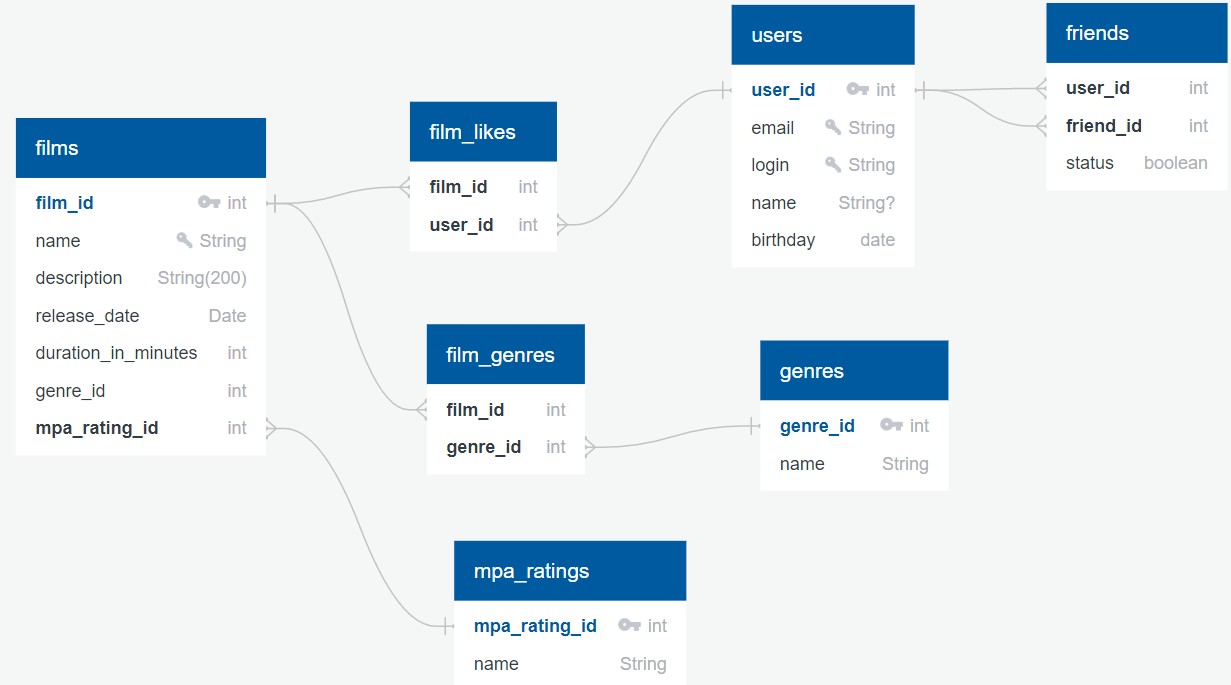
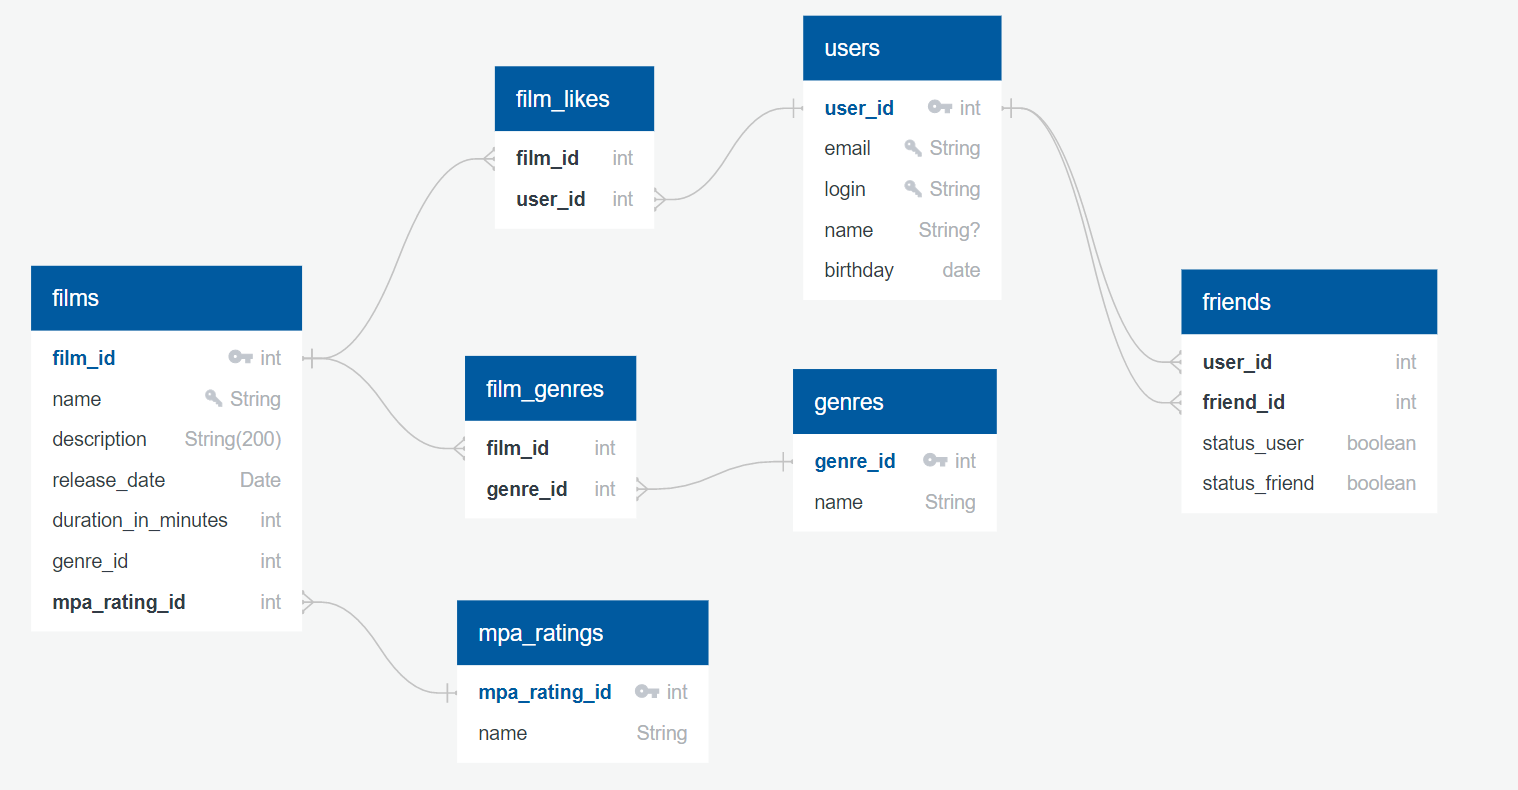
11.2.2 поменял связь добавления в друзья

diff --git a/src/main/java/ru/yandex/practicum/filmorate/storage/dao/friend/FriendDbDao.java b/src/main/java/ru/yandex/practicum/filmorate/storage/dao/friend/FriendDbDao.java
@@ -5,12 +5,10 @@ import lombok.extern.slf4j.Slf4j;
 import org.springframework.dao.EmptyResultDataAccessException;
 import org.springframework.jdbc.core.JdbcTemplate;
 import org.springframework.stereotype.Repository;
-import ru.yandex.practicum.filmorate.exeption.not_found.UserNotFoundException;
-import ru.yandex.practicum.filmorate.model.Friend;
-import ru.yandex.practicum.filmorate.storage.mapper.FriendMapper;
+import ru.yandex.practicum.filmorate.exeption.notfound.FilmNotFoundException;
+import ru.yandex.practicum.filmorate.exeption.validate.FriendAlreadyExistException;
 
 import java.util.List;
-import java.util.stream.Collectors;
 
 import static java.lang.String.format;
 
@@ -22,131 +20,127 @@ public class FriendDbDao implements FriendDao {
 
     @Override
     public void addFriend(int userId, int friendId) {
-        log.info("запрос на добавления в друзья от {} к {}", userId, friendId);
+        log.info("запрос на добавления в друзья от user_id={} к friend_id={}", userId, friendId);
+        if (userId == friendId) {
+            log.info("нельзя добавить самого себя в друзья");
+            throw new FriendAlreadyExistException("нельзя добавить самого себя в друзья");
+        }
         switch (checkFriend(userId, friendId)) {
             case 1:
-                log.info("User с id - {}, уже отправлял заявку friend с id - {}", userId, friendId);
+            case 3:
+                log.info("user_id={} уже отправлял заявку friend_id={}", userId, friendId);
+                throw new FriendAlreadyExistException(format("user_id=%d уже отправлял заявку friend_id=%d",
+                        userId, friendId));
+            case 2:
+            case 4:
+                log.info("user_id={} одобрил заявку friend_id={}", userId, friendId);
+                jdbcTemplate.update("UPDATE friends " +
+                        "SET status_user=? " +
+                        "WHERE user_id=? " +
+                        "AND friend_id=? ", true, userId, friendId);
                 break;
-            case 0:
-                log.info("User с id - {}, подал заявку user с id - {}", userId, friendId);
-                jdbcTemplate.update("INSERT INTO friends (user_id, friend_id, status) " +
-                        "VALUES(?, ?, ?)", userId, friendId, false);
+            case 5:
+                log.info("user_id={} отправил заявку friend_id={}", userId, friendId);
+                jdbcTemplate.update("INSERT INTO friends (user_id, friend_id, status_user, status_friend) " +
+                        "VALUES(?, ?, ?, ?)", userId, friendId, true, false);
                 break;
-            case -1:
-                log.info("User с id - {}, принял заявку friend с id - {}", friendId, userId);
-                jdbcTemplate.update(""
-                                + "UPDATE friends "
-                                + "SET user_id=?, friend_id=?, status=? "
-                                + "WHERE user_id=? "
-                                + "AND friend_id=? ",
-                        friendId,
-                        userId,
-                        true,
-                        friendId,
-                        userId);
-                break;
-
+            default:
+                throw new FilmNotFoundException("неизвестная команда добавления фильма");
         }
 
     }
 
     @Override
     public void deleteFriend(int userId, int friendId) {
-        log.info("запрос на удаление из друзей от {} к {}", userId, friendId);
+        log.info("запрос на удаление из друзей от user_id={} к friend_id={}", userId, friendId);
         switch (checkFriend(userId, friendId)) {
-            case 0:
-                log.info("Не были друзьями");
-                return;
-            case -1:
-                log.info("Заменили местами user id.");
-                int swap = userId;
-                userId = friendId;
-                friendId = swap;
-        }
+            case 1:
+                log.info("user_id={}, удалил заявку id={}", userId, friendId);
+                jdbcTemplate.update(""
+                        + "UPDATE friends "
+                        + "SET status_user = false "
+                        + "WHERE user_id=? "
+                        + "AND friend_id=?", userId, friendId);
+                break;
+            case 3:
+                log.info("user_id={}, удалил заявку id={}", userId, friendId);
+                jdbcTemplate.update(""
+                        + "UPDATE friends "
+                        + "SET status_friend = false "
+                        + "WHERE user_id=? "
+                        + "AND friend_id=?", friendId, userId);
+                break;
 
-        Friend result = get(userId, friendId);
-
-        if (result.getStatus()) {
-            log.info("один из user отозвал подтверждение дружбы");
-            jdbcTemplate.update(""
-                    + "UPDATE friends "
-                    + "SET status = false "
-                    + "WHERE user_id=? "
-                    + "AND friend_id=?", userId, friendId);
-
-        } else {
-            log.info("оба user отозвали подтверждение дружбы");
-            jdbcTemplate.update(""
-                    + "DELETE FROM friends "
-                    + "WHERE user_id=? "
-                    + "AND friend_id=?", userId, friendId);
+            case 2:
+            case 4:
+            case 5:
+                log.info("user_id={} не был другом с id={}", userId, friendId);
+                throw new FriendAlreadyExistException(format("user_id=%d не был другом с id=%d", userId, friendId));
+            default:
+                throw new FilmNotFoundException("неизвестная команда добавления фильма");
         }
 
     }
 
     @Override
-    public List<Integer> showFriendsById(int id) {
-        log.info("запрос на вывод друзей пользователя ID - {}", id);
+    public List<Integer> showFriendsById(int userId) {
+        log.info("запрос на вывод друзей пользователя ID - {}", userId);
 
-        List<Integer> friend = jdbcTemplate.query(format(""
-                        + "SELECT user_id, friend_id, status "
-                        + "FROM friends "
-                        + "WHERE user_id=%d "
-                        + "OR (friend_id=%d and status=%b)  ", id, id, true), new FriendMapper())
-                .stream()
-                .map(friend1 -> {
-                    if (friend1.getFriendId() != id) {
-                        return friend1.getFriendId();
-                    } else {
-                        return friend1.getUserId();
-                    }
-                }).distinct().collect(Collectors.toList());
-        return friend;
-    }
-
-    private Friend get(int userId, int friendId) {
-        log.info("запрос на одну отдельную заявку друзей");
-        return jdbcTemplate.queryForObject(format(""
-                + "SELECT user_id, friend_id, status "
+        List<Integer> users = jdbcTemplate.queryForList(format(""
+                + "SELECT friend_id "
                 + "FROM friends "
-                + "WHERE user_id=%d "
-                + "AND friend_id=%d", userId, friendId), new FriendMapper());
+                + "WHERE user_id=%d AND status_user=%b ", userId, true), Integer.class);
+
+        List<Integer> friends = jdbcTemplate.queryForList(format(""
+                + "SELECT user_id "
+                + "FROM friends "
+                + "WHERE friend_id=%d AND status_friend=%b ", userId, true), Integer.class);
+
+        users.addAll(friends);
+
+        return users;
     }
 
     private byte checkFriend(int userId, int friendId) {
         log.info("проверка записи друзей");
         try {
+
+            Boolean userFriendStatus = jdbcTemplate.queryForObject(format(""
+                    + "SELECT status_user "
+                    + "FROM friends "
+                    + "WHERE user_id=%d "
+                    + "AND friend_id=%d ", userId, friendId), Boolean.class);
             log.debug("user_id: {}, уже добавил friend_id: {}", userId, friendId);
-            Friend friend = jdbcTemplate.queryForObject(format(""
-                    + "SELECT user_id, friend_id, status "
-                    + "FROM friends "
-                    + "WHERE user_id=%d "
-                    + "AND friend_id=%d ", userId, friendId), new FriendMapper());
-            log.info("запись имеется в правильном формате {}", friend);
-            return 1;
 
-        } catch (EmptyResultDataAccessException ignored) {
-            log.info("пустая обработка EmptyResultDataAccessException");
 
-        }
-        try {
-            log.info("user_id: {} пытается одобрить заявку friend_id: {}", userId, friendId);
-            Friend friend = jdbcTemplate.queryForObject(format(""
-                    + "SELECT user_id, friend_id, status "
-                    + "FROM friends "
-                    + "WHERE user_id=%d "
-                    + "AND friend_id=%d ", friendId, userId), new FriendMapper());
-            log.info("запись имеется в развернутом формате {}", friend);
-            if (friend.getStatus()) {
-                log.debug("user_id: {} уже одобрить заявку friend_id: {}", userId, friendId);
-                throw new UserNotFoundException("Уже добавлены в друзья");
+            if (userFriendStatus) {
+                log.debug("user_id:{} и friend_id:{} уже являются друзьями", userId, friendId);
+                return 1;
+            } else {
+                log.debug("user_id:{} отправил заявку friend_id:{}", userId, friendId);
+                return 2;
             }
-            log.debug("user_id: {} может одобрить заявку friend_id: {}", userId, friendId);
-            return -1;
-
-        } catch (EmptyResultDataAccessException e) {
-            log.info("запись друзей отсутствует");
-            return 0;
+        } catch (EmptyResultDataAccessException ignored) {
         }
+
+        try {
+            Boolean friendUserStatus = jdbcTemplate.queryForObject(format(""
+                    + "SELECT status_friend "
+                    + "FROM friends "
+                    + "WHERE user_id=%d "
+                    + "AND friend_id=%d ", friendId, userId), Boolean.class);
+
+            if (friendUserStatus) {
+                log.debug("user_id:{} отправил заявку friend_id:{}", userId, friendId);
+                return 3;
+            } else {
+                log.debug("user_id:{} и friend_id:{} уже не являются друзьями", userId, friendId);
+                return 4;
+            }
+        } catch (EmptyResultDataAccessException e) {
+            log.info("Данной заявки еще не существует");
+            return 5;
+        }
+
     }
 }

diff --git a/src/main/java/ru/yandex/practicum/filmorate/controller/ErrorHandler.java b/src/main/java/ru/yandex/practicum/filmorate/controller/ErrorHandler.java
@@ -4,7 +4,7 @@ import org.springframework.http.HttpStatus;
 import org.springframework.web.bind.annotation.ExceptionHandler;
 import org.springframework.web.bind.annotation.ResponseStatus;
 import org.springframework.web.bind.annotation.RestControllerAdvice;
-import ru.yandex.practicum.filmorate.exeption.not_found.NotFoundException;
+import ru.yandex.practicum.filmorate.exeption.notfound.NotFoundException;
 import ru.yandex.practicum.filmorate.exeption.validate.*;
 import ru.yandex.practicum.filmorate.model.ErrorResponse;
 
@@ -20,6 +20,12 @@ public class ErrorHandler {
     @ExceptionHandler
     @ResponseStatus(HttpStatus.BAD_REQUEST)
     public ErrorResponse handlerUserLoginAlreadyExistException(final UserLoginAlreadyExistException e) {
+        return new ErrorResponse(e.getMessage());
+    }
+
+    @ExceptionHandler
+    @ResponseStatus(HttpStatus.BAD_REQUEST)
+    public ErrorResponse handlerFriendAlreadyExistException(final FriendAlreadyExistException e) {
         return new ErrorResponse(e.getMessage());
     }
 

diff --git a/src/main/java/ru/yandex/practicum/filmorate/storage/dao/user/UserDbDao.java b/src/main/java/ru/yandex/practicum/filmorate/storage/dao/user/UserDbDao.java
@@ -7,7 +7,7 @@ import org.springframework.context.annotation.Primary;
 import org.springframework.dao.EmptyResultDataAccessException;
 import org.springframework.jdbc.core.JdbcTemplate;
 import org.springframework.stereotype.Repository;
-import ru.yandex.practicum.filmorate.exeption.not_found.UserNotFoundException;
+import ru.yandex.practicum.filmorate.exeption.notfound.UserNotFoundException;
 import ru.yandex.practicum.filmorate.exeption.validate.FilmNameAlreadyExistException;
 import ru.yandex.practicum.filmorate.exeption.validate.UserEmailAlreadyExistException;
 import ru.yandex.practicum.filmorate.exeption.validate.UserIdNotNullException;

diff --git a/src/main/java/ru/yandex/practicum/filmorate/storage/dao/film/FilmDbDao.java b/src/main/java/ru/yandex/practicum/filmorate/storage/dao/film/FilmDbDao.java
@@ -6,7 +6,7 @@ import org.springframework.context.annotation.Primary;
 import org.springframework.dao.EmptyResultDataAccessException;
 import org.springframework.jdbc.core.JdbcTemplate;
 import org.springframework.stereotype.Repository;
-import ru.yandex.practicum.filmorate.exeption.not_found.FilmNotFoundException;
+import ru.yandex.practicum.filmorate.exeption.notfound.FilmNotFoundException;
 import ru.yandex.practicum.filmorate.exeption.validate.DateReleaseException;
 import ru.yandex.practicum.filmorate.exeption.validate.FilmIdNotNullException;
 import ru.yandex.practicum.filmorate.exeption.validate.FilmNameAlreadyExistException;

diff --git a/src/main/java/ru/yandex/practicum/filmorate/storage/dao/user/InMemoryUserStorage.java b/src/main/java/ru/yandex/practicum/filmorate/storage/dao/user/InMemoryUserStorage.java
@@ -4,7 +4,7 @@ package ru.yandex.practicum.filmorate.storage.dao.user;
 import lombok.extern.slf4j.Slf4j;
 import org.springframework.beans.factory.annotation.Autowired;
 import org.springframework.stereotype.Component;
-import ru.yandex.practicum.filmorate.exeption.not_found.UserNotFoundException;
+import ru.yandex.practicum.filmorate.exeption.notfound.UserNotFoundException;
 import ru.yandex.practicum.filmorate.exeption.validate.UserEmailAlreadyExistException;
 import ru.yandex.practicum.filmorate.exeption.validate.UserLoginAlreadyExistException;
 import ru.yandex.practicum.filmorate.model.User;

diff --git a/src/main/java/ru/yandex/practicum/filmorate/storage/dao/film/InMemoryFilmStorage.java b/src/main/java/ru/yandex/practicum/filmorate/storage/dao/film/InMemoryFilmStorage.java
@@ -3,7 +3,7 @@ package ru.yandex.practicum.filmorate.storage.dao.film;
 import lombok.extern.slf4j.Slf4j;
 import org.springframework.beans.factory.annotation.Autowired;
 import org.springframework.stereotype.Component;
-import ru.yandex.practicum.filmorate.exeption.not_found.FilmNotFoundException;
+import ru.yandex.practicum.filmorate.exeption.notfound.FilmNotFoundException;
 import ru.yandex.practicum.filmorate.exeption.validate.DateReleaseException;
 import ru.yandex.practicum.filmorate.exeption.validate.FilmNameAlreadyExistException;
 import ru.yandex.practicum.filmorate.model.Film;

diff --git a/src/main/java/ru/yandex/practicum/filmorate/storage/dao/like/LikeDbDao.java b/src/main/java/ru/yandex/practicum/filmorate/storage/dao/like/LikeDbDao.java
@@ -5,8 +5,8 @@ import lombok.extern.slf4j.Slf4j;
 import org.springframework.dao.EmptyResultDataAccessException;
 import org.springframework.jdbc.core.JdbcTemplate;
 import org.springframework.stereotype.Repository;
-import ru.yandex.practicum.filmorate.exeption.not_found.LikeNotFoundException;
-import ru.yandex.practicum.filmorate.exeption.not_found.MpaNotFoundException;
+import ru.yandex.practicum.filmorate.exeption.notfound.LikeNotFoundException;
+import ru.yandex.practicum.filmorate.exeption.notfound.MpaNotFoundException;
 
 import java.util.List;
 

diff --git a/src/main/java/ru/yandex/practicum/filmorate/storage/dao/genre/GenreDbDao.java b/src/main/java/ru/yandex/practicum/filmorate/storage/dao/genre/GenreDbDao.java
@@ -5,7 +5,7 @@ import lombok.extern.slf4j.Slf4j;
 import org.springframework.dao.EmptyResultDataAccessException;
 import org.springframework.jdbc.core.JdbcTemplate;
 import org.springframework.stereotype.Repository;
-import ru.yandex.practicum.filmorate.exeption.not_found.GenreNotFoundException;
+import ru.yandex.practicum.filmorate.exeption.notfound.GenreNotFoundException;
 import ru.yandex.practicum.filmorate.model.Genre;
 import ru.yandex.practicum.filmorate.storage.mapper.GenreMapper;
 

diff --git a/src/main/java/ru/yandex/practicum/filmorate/storage/dao/mpa/MpaDbDao.java b/src/main/java/ru/yandex/practicum/filmorate/storage/dao/mpa/MpaDbDao.java
@@ -5,7 +5,7 @@ import lombok.extern.slf4j.Slf4j;
 import org.springframework.dao.EmptyResultDataAccessException;
 import org.springframework.jdbc.core.JdbcTemplate;
 import org.springframework.stereotype.Repository;
-import ru.yandex.practicum.filmorate.exeption.not_found.MpaNotFoundException;
+import ru.yandex.practicum.filmorate.exeption.notfound.MpaNotFoundException;
 import ru.yandex.practicum.filmorate.model.Mpa;
 import ru.yandex.practicum.filmorate.storage.mapper.MpaMapper;
 

diff --git a/src/main/java/ru/yandex/practicum/filmorate/controller/UserController.java b/src/main/java/ru/yandex/practicum/filmorate/controller/UserController.java
@@ -4,7 +4,7 @@ import lombok.extern.slf4j.Slf4j;
 import org.springframework.beans.factory.annotation.Autowired;
 import org.springframework.http.HttpStatus;
 import org.springframework.web.bind.annotation.*;
-import ru.yandex.practicum.filmorate.exeption.not_found.UserNotFoundException;
+import ru.yandex.practicum.filmorate.exeption.notfound.UserNotFoundException;
 import ru.yandex.practicum.filmorate.model.User;
 import ru.yandex.practicum.filmorate.service.UserService;
 

diff --git a/src/main/java/ru/yandex/practicum/filmorate/exeption/notfound/GenreNotFoundException.java b/src/main/java/ru/yandex/practicum/filmorate/exeption/notfound/GenreNotFoundException.java
@@ -1,4 +1,4 @@
-package ru.yandex.practicum.filmorate.exeption.not_found;
+package ru.yandex.practicum.filmorate.exeption.notfound;
 
 public class GenreNotFoundException extends NotFoundException {
     public GenreNotFoundException(String message) {

diff --git a/src/main/java/ru/yandex/practicum/filmorate/exeption/notfound/FilmNotFoundException.java b/src/main/java/ru/yandex/practicum/filmorate/exeption/notfound/FilmNotFoundException.java
@@ -1,4 +1,4 @@
-package ru.yandex.practicum.filmorate.exeption.not_found;
+package ru.yandex.practicum.filmorate.exeption.notfound;
 
 public class FilmNotFoundException extends NotFoundException {
     public FilmNotFoundException(String message) {
